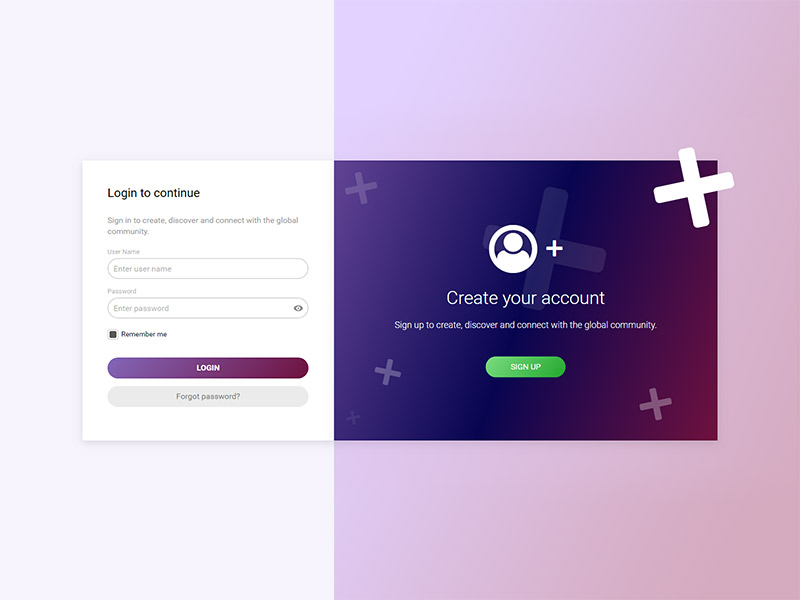
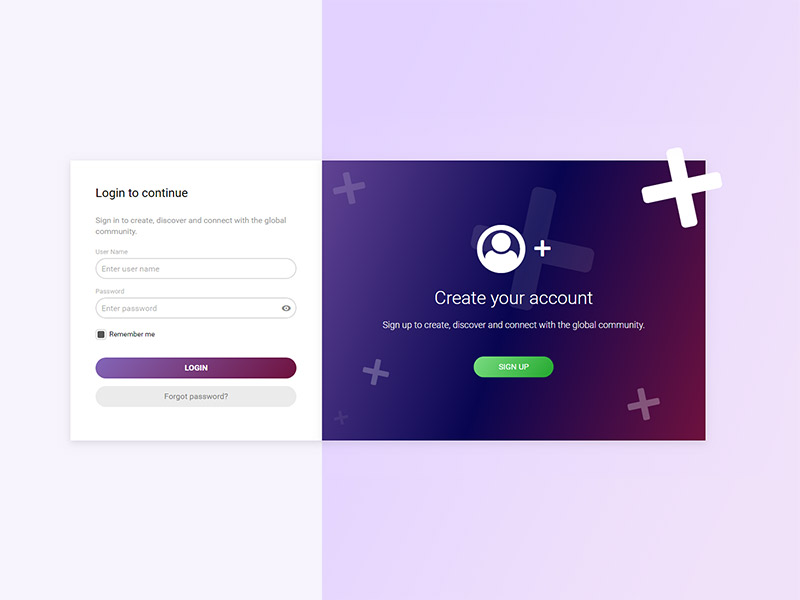
Added Login Page.

diff --git a/docs/login-page.html b/docs/login-page.html
@@ -1,0 +1,175 @@
+<!DOCTYPE html>
+<html lang="en">
+
+<head>
+    <title>UI Lab, Sign In Page</title>
+    <meta name="keywords" content="uilab, responsive, design system, css, javascript, sign in page">
+    <meta name="description" content="CSS & JavaScript powered responsive design system." />
+    <meta name="author" content="Ahmet Emin Yüce"/>
+
+    <meta charset="utf-8" />
+    <meta name="viewport" content="width=device-width, initial-scale=1.0, minimum-scale=1.0" />
+
+    <!--[if IE]><meta https-equiv="X-UA-Compatible" content="IE=edge" /><![endif]-->
+    <!--[if lt IE 9]><script>window.navigate('http://outdatedbrowser.com/tr');</script><![endif]-->
+
+    <!-- CSS Tools -->
+    <link rel="stylesheet" href="../css/alignments.css" />
+    <link rel="stylesheet" href="../css/buttons.css" />
+    <link rel="stylesheet" href="../css/borders.css" />
+    <link rel="stylesheet" href="../css/custom-forms.css" />
+    <link rel="stylesheet" href="../css/forms.css" />
+    <link rel="stylesheet" href="../css/form-icons.css" />
+    <link rel="stylesheet" href="../css/grid.css" />
+    <link rel="stylesheet" href="../css/helpers.css" />
+    <link rel="stylesheet" href="../css/icons.css" />
+    <link rel="stylesheet" href="../css/ie9-placeholders.css" />
+    <link rel="stylesheet" href="../css/margins.css" />
+    <link rel="stylesheet" href="../css/paddings.css" />
+    <link rel="stylesheet" href="../css/portlets.css" />
+    <link rel="stylesheet" href="../css/reset.css" />
+    <link rel="stylesheet" href="../css/scrollbar.css" />
+    <link rel="stylesheet" href="../css/transitions.css" />
+    <link rel="stylesheet" href="../css/typography.css" />
+    <link rel="stylesheet" href="../css/static-grid.css" />
+    <link rel="stylesheet" href="../css/swatches.css" />
+
+    <!-- Javascript Tools -->
+    <script src="../js/selector.js"></script>
+    <script src="../js/events.js"></script>
+
+    <script src="../js/forms.js"></script>
+    <script src="../js/ie9-placeholders.js"></script>
+    <script src="../js/required-forms.js"></script>
+    <script src="../js/toggle-password.js"></script>
+    <script src="../js/transitions.js"></script>
+    <script src="../js/user-agents.js"></script>
+
+    <!-- font icons CSS -->
+    <link rel="stylesheet" href="icons/font-icons/fill/font-icons.css" />
+
+    <!-- custom CSS -->
+    <style>
+        html,body { height: 100%; }
+
+        .forms-holder,.content-holder { min-height: 560px; }
+
+        .content-holder { background-image: linear-gradient(110deg, #624494, #080550, #6f113e); }
+        .ie9 .content-holder { background-color: #624494; }
+        .content-holder .icon { font-size: 96px; }
+        .content-holder > .set-absolute { z-index: 1; }
+
+        .form-btn { background-image: linear-gradient(130deg, #8366b9,#6f113e); }
+        .ie9 .form-btn { background-color: #8366b9; }
+
+        .content-btn { min-width: 26%; background-image: linear-gradient(130deg, #7adc81,#23a72e); }
+        .ie9 .content-btn {background-color: #23a72e; }
+        
+        .content-container > .icon { font-size: 160px; position: absolute; top: 12%; right: 8%; transform: rotate(-12deg); }
+
+        .content-icons .icon { position: absolute; }
+        .content-icons .icon:nth-child(1) { font-size: 52px; bottom: 112px; left: 82px; opacity: .25; transform: rotate(12deg); }
+        .content-icons .icon:nth-child(2) { font-size: 28px; bottom: 32px; left: 24px; opacity: .075; transform: rotate(-12deg); }
+        .content-icons .icon:nth-child(3) { font-size: 64px; top: 22px; left: 22px; opacity: .15; transform: rotate(-12deg); }
+        .content-icons .icon:nth-child(4) { font-size: 64px; bottom: 42px; right: 92px; opacity: .3; transform: rotate(-12deg); }
+        .content-icons .icon:nth-child(5) { font-size: 246px; top: 48px; right: 29%; opacity: .1; transform: rotate(12deg); }
+
+        @media (min-width: 768px) {
+            .form-container { background-color: #f6f4fc; padding: 8% 0 8% 10% !important; }
+            .content-container { background-image: linear-gradient(110deg, #e2d2ff, #f0e2f9); padding: 8% 10% 8% 0 !important; }
+            .ie9 .content-container { background-color: #f0e2f9; }
+
+            .forms-holder,.content-holder > .set-absolute { padding: 10%; }
+        }
+        @media (max-width: 767px) {
+            body { background-color: #e2d2ff; }
+            .form-container { padding: 50px 10px !important; }
+
+            .forms-holder,.content-holder > .set-absolute { padding: 30px; }
+        }
+    </style>
+
+</head>
+
+<body>
+
+    <!-- documentation examples -->
+    <main class="container full-height no-gutter">
+
+        <div class="row row-no-padding full-height">
+            <div class="form-container col-5 col-md-6 sm-responsive">
+                
+                <div class="forms-holder portlet shadow-lg">
+                    <form action="#">
+
+                        <h3 class="margin-30-b">Login to continue</h3>
+                        <p class="dark large">Sign in to create, discover and connect with the global community.</p>
+
+                        <label class="form-label x-dark">User Name</label>
+                        <div class="text text-lg circle dual-bordered ease-form">
+                            <input class="required" type="text" placeholder="Enter user name" minlength="3" autocomplete="username">
+                        </div>
+                        <p class="required-msg circle">Enter user name.</p>
+
+                        <span class="sp15"></span>
+
+                        <label class="form-label x-dark">Password</label>
+                        <div class="text text-lg text-icon text-icon-lg circle dual-bordered ease-form">
+                            <span title="Show/Hide Password" class="toggle-password icon icon-md margin-5-r icon-eye ease-layout"></span>
+                            <input class="required" type="password" placeholder="Enter password" minlength="8" autocomplete="current-password">
+                        </div>
+                        <p class="required-msg circle">Minimum length is 8 characters.</p>
+
+                        <span class="sp15"></span>
+
+                        <label class="custom">
+                            <span class="check-custom rounded dual-bordered ease-form">
+                                <input type="checkbox" checked>
+                                <i class="ease-form-custom"></i>
+                            </span>
+                            <b>Remember me</b>
+                        </label>
+
+                        <span class="sp30"></span>
+                        
+                        <button type="submit" class="form-btn btn btn-lg xx-light block circle scale ease-layout"><b>LOGIN</b></button>
+                        <span class="sp15"></span>
+                        <a class="btn btn-lg x-dark circle block scale ease-layout" href="#">Forgot password?</a>
+
+                    </form>
+                </div>
+
+            </div>
+            <div class="content-container col-7 col-md-6 sm-responsive hidden-sm">
+
+                <div class="content-holder align-center no-overflow set-relative ui-dark shadow-lg">
+
+                    <div class="full-width set-absolute set-middle">
+                        <i class="icon icon-customer"></i>
+                        <i class="icon icon-xl icon-plus margin-15-l hidden-md"></i>
+                        <span class="sp30"></span>
+                        <h1 class="thin hidden-md">Create your account</h1>
+                        <p class="x-large thin">Sign up to create, discover and connect with the global community.</p>
+                        <span class="sp30"></span>
+                        <button class="content-btn btn btn-lg circle scale ease-layout">SIGN UP</button>
+                    </div>
+
+                    <div class="content-icons">
+                        <i class="icon icon-plus"></i>
+                        <i class="icon icon-plus"></i>
+                        <i class="icon icon-plus"></i>
+                        <i class="icon icon-plus"></i>
+                        <i class="icon icon-plus"></i>
+                    </div>
+
+                </div>
+
+                <i class="icon xx-light icon-plus"></i>
+
+            </div>
+        </div>
+
+    </main>
+
+</body>
+</html>
